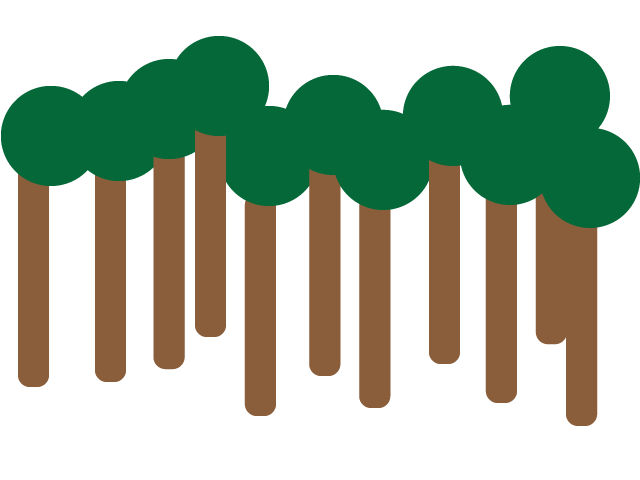
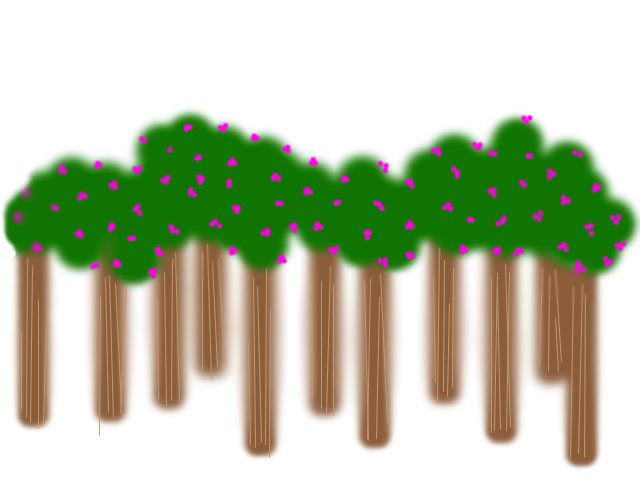
background update

diff --git a/js/main.js b/js/main.js
@@ -104,6 +104,9 @@ var backnearX = 0;
 var backfar = document.createElement("img");
 backfar.src = "images/back_far.png";
 var backfarX = 0;
+var backDistance = document.createElement("img");
+backDistance.src = "images/back_distance.png";
+backDistanceX = 0;
 
 // Sounds
 var sfxFootstepsRoofPlaying = false;
@@ -470,13 +473,16 @@ function restoreScreen()
 // Draw a parallax scrolling background.
 function drawBackground(deltaTime)
 {
-    context.drawImage(backfar, backfarX, 50);
-    context.drawImage(backfar, backfarX + 640, 50);
-    context.drawImage(backnear, backnearX, 50);
+	context.drawImage(backDistance, backDistanceX, 50);
+    context.drawImage(backDistance, backDistanceX + 640, 50);
+	context.drawImage(backnear, backnearX, 50);
     context.drawImage(backnear, backnearX + 640, 50);
+	context.drawImage(backfar, backfarX, 50);
+    context.drawImage(backfar, backfarX + 640, 50);
 
-    backfarX = backfarX - (deltaTime * levelSpeed /4);
-    backnearX = backnearX - (deltaTime * levelSpeed /3);
+    backDistanceX = backDistanceX - (deltaTime * levelSpeed /40);
+	backfarX = backfarX - (deltaTime * levelSpeed /4);
+    backnearX = backnearX - (deltaTime * levelSpeed /8);
 
     if(backfarX < -640)
     {
@@ -485,6 +491,10 @@ function drawBackground(deltaTime)
     if(backnearX < -640)
     {
       backnearX = backnearX + 640;
+    }
+	 if (backDistanceX < -640)
+    {
+      backDistanceX = backDistanceX + 640;
     }
 }
 
